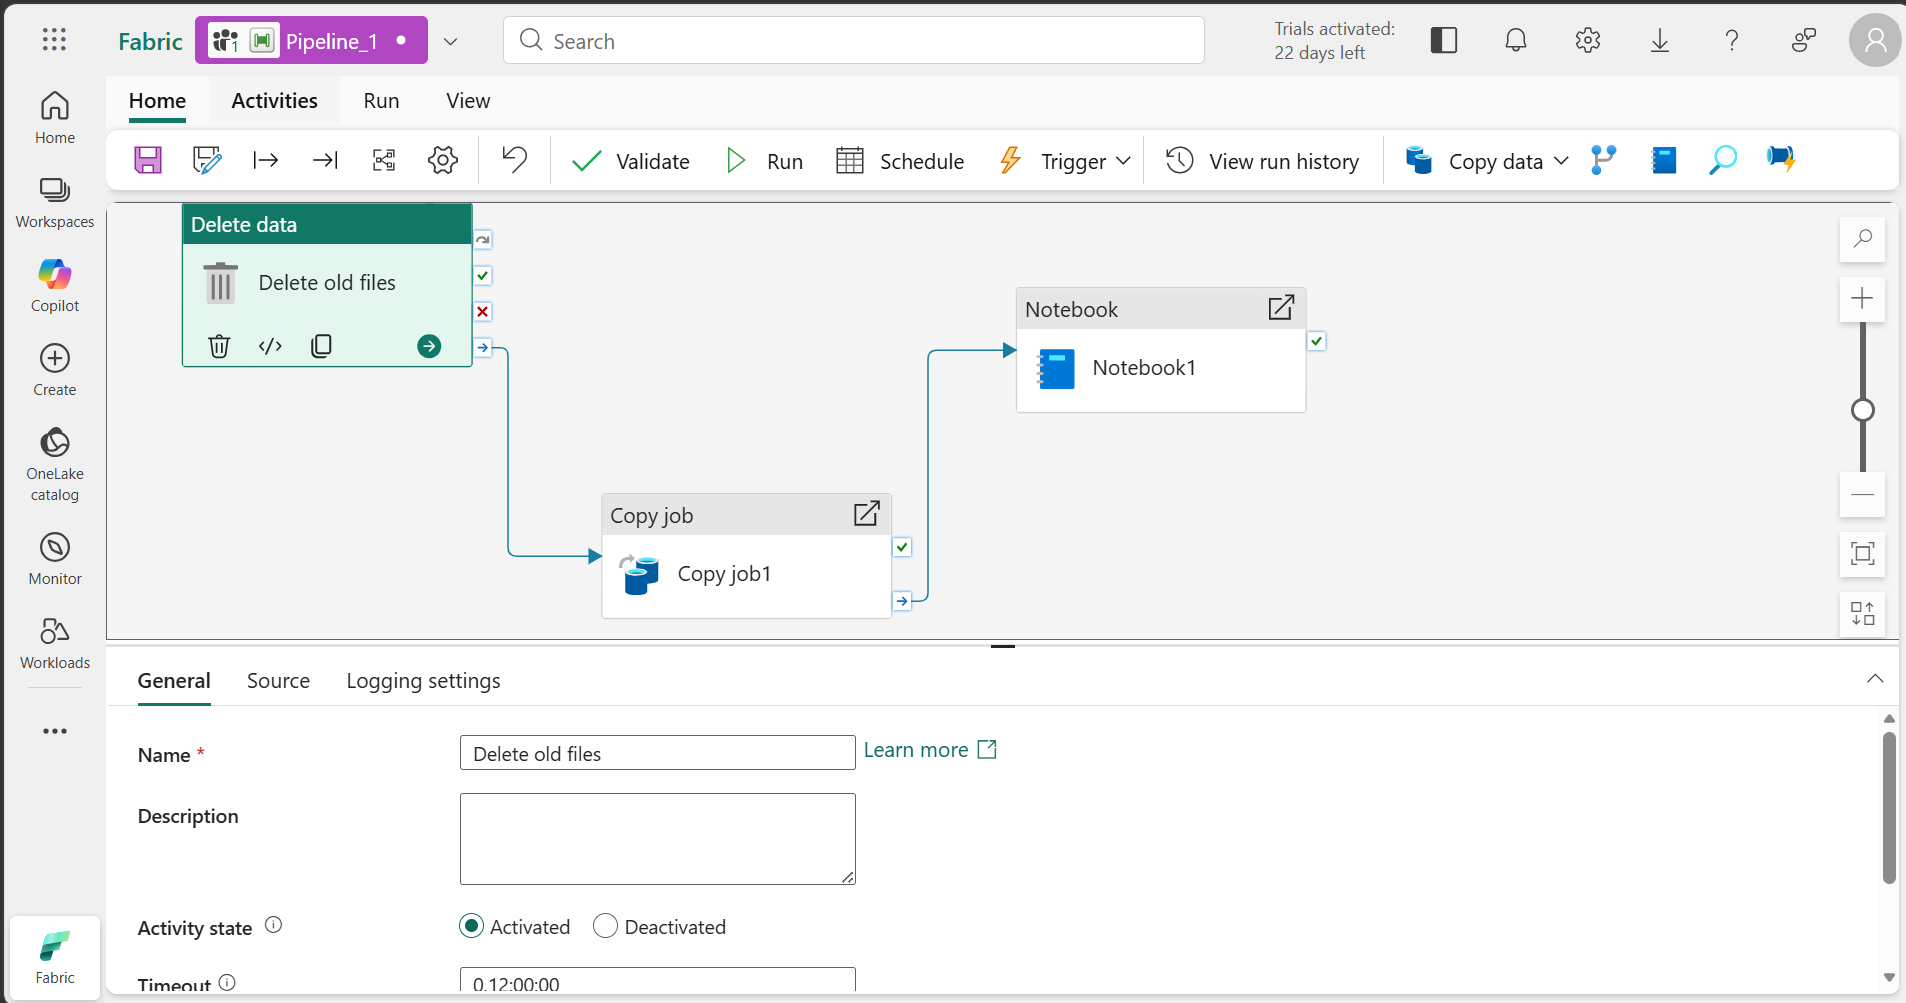
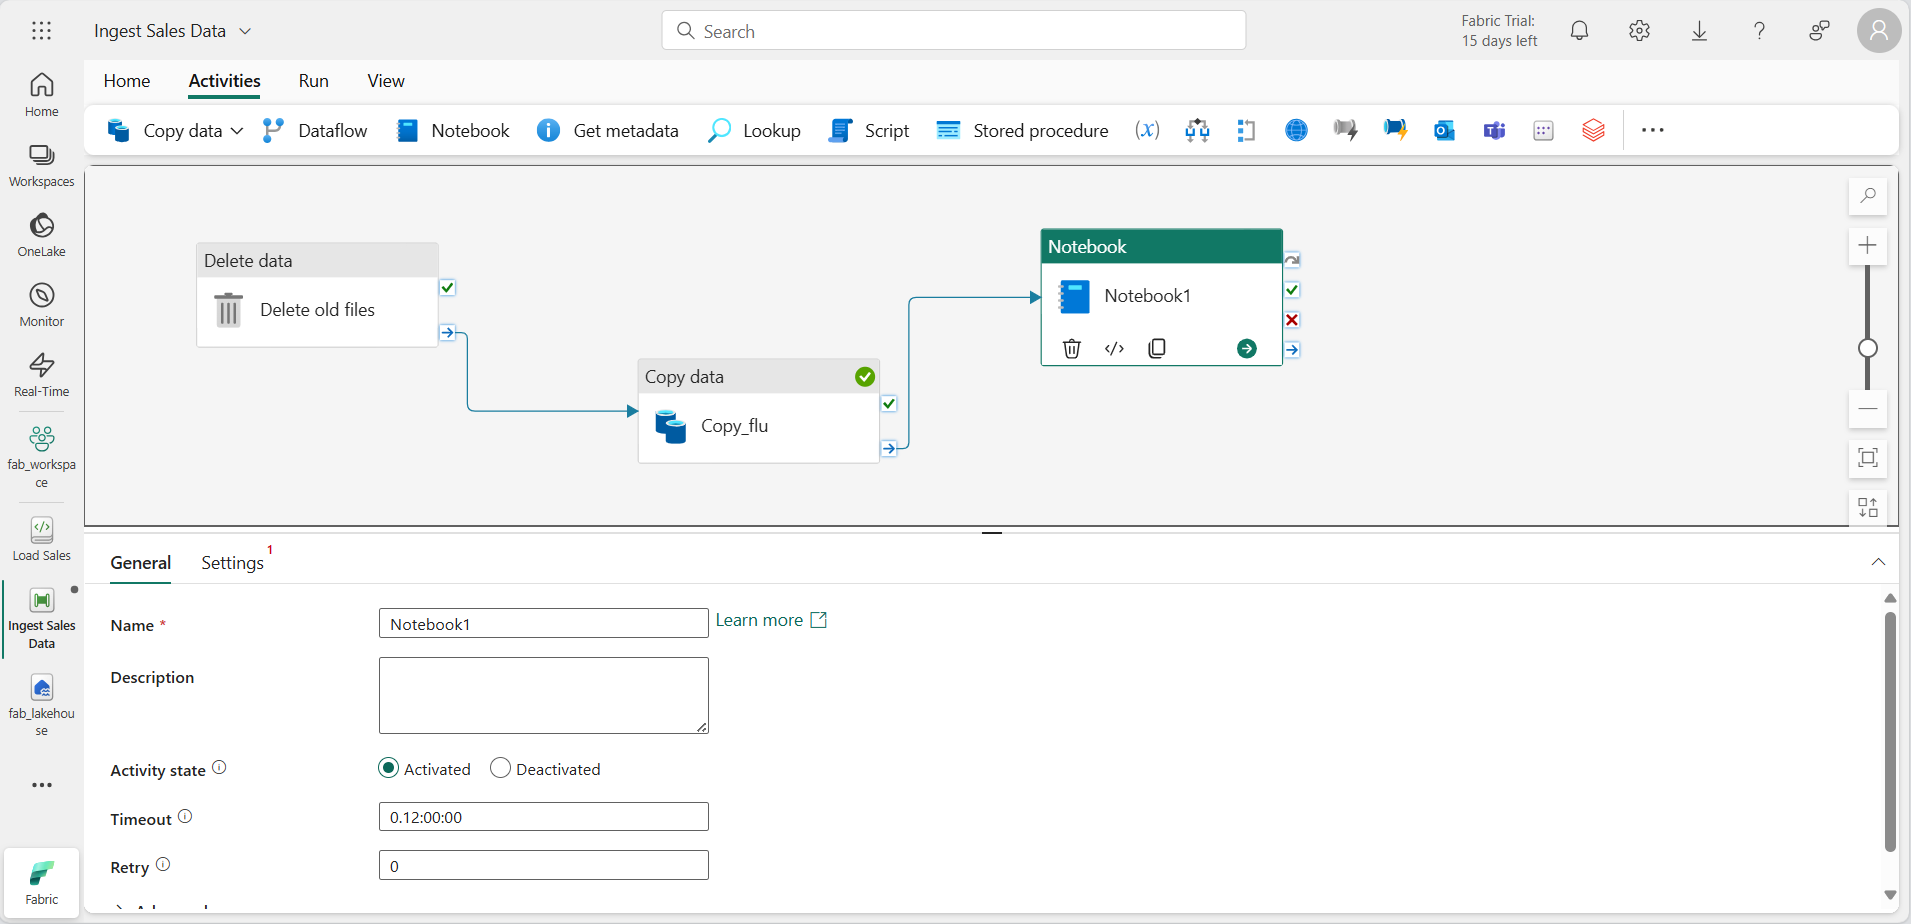
Replace Copy Job workflow with Copy Data activity in pipeline for lab 04
- Rewrite Create a pipeline section to use Copy Data activity directly
- Add Source/Destination tab configuration steps
- Remove standalone Copy Job wizard and Add to pipeline steps
- Add new screenshots for Copy Data activity workflow
- Remove unused Copy Job screenshots
- Fix formatting and grammar issues

diff --git a/Instructions/Labs/04-ingest-pipeline.md b/Instructions/Labs/04-ingest-pipeline.md
@@ -2,7 +2,7 @@
 lab:
   title: Ingest data with a pipeline in Microsoft Fabric
   module: Use Data Factory pipelines in Microsoft Fabric
-  description: In this lab, you'll create data pipelines to ingest data from external sources into a lakehouse, and integrate Spark notebooks to transform and load the data into tables. You'll learn how to combine Copy data activities with custom Spark transformations to build reusable ETL processes in Microsoft Fabric.
+  description: In this lab, you'll create data pipelines to ingest data from external sources into a lakehouse, and integrate Spark notebooks to transform and load the data into tables. You'll learn how to combine Copy Data activities with custom Spark transformations to build reusable ETL processes in Microsoft Fabric.
   duration: 45 minutes
   level: 300
   islab: true
@@ -18,7 +18,7 @@ Fabric also supports Apache Spark, enabling you to write and run code to process
 
 This lab will take approximately **45** minutes to complete.
 
-> [!Note] 
+> [!Note]
 > You need access to a [Microsoft Fabric tenant](https://learn.microsoft.com/fabric/get-started/fabric-trial) to complete this exercise.
 
 ## Create a workspace
@@ -26,7 +26,7 @@ This lab will take approximately **45** minutes to complete.
 Before working with data in Fabric, create a workspace with the Fabric trial enabled.
 
 1. Navigate to the [Microsoft Fabric home page](https://app.fabric.microsoft.com/home?experience=fabric-developer) at `https://app.fabric.microsoft.com/home?experience=fabric-developer` in a browser and sign in with your Fabric credentials.
-1. In the menu bar on the left, select **Workspaces** (the icon looks similar to &#128455;).
+1. In the navigation pane on the left, select **Workspaces** (the icon looks similar to &#128455;).
 1. Create a new workspace with a name of your choice, selecting a licensing mode in the **Advanced** section that includes Fabric capacity (*Trial*, *Premium*, or *Fabric*).
 1. When your new workspace opens, it should be empty.
 
@@ -36,7 +36,7 @@ Before working with data in Fabric, create a workspace with the Fabric trial ena
 
 Now that you have a workspace, it's time to create a data lakehouse into which you will ingest data.
 
-1. On the menu bar on the left, select **Create**. In the *New* page, under the *Data Engineering* section, select **Lakehouse**. Give it a unique name of your choice. Make sure the "Lakehouse schemas (Public Preview)" option is disabled.
+1. On the navigation pane on the left, select **Create**, and choose **Lakehouse**. Give it a unique name of your choice. Make sure the "Lakehouse schemas (Public Preview)" option is disabled.
 
     >**Note**: If the **Create** option is not pinned to the sidebar, you need to select the ellipsis (**...**) option first.
 
@@ -46,66 +46,66 @@ Now that you have a workspace, it's time to create a data lakehouse into which y
 
 ## Create a pipeline
 
-A simple way to ingest data is to use a **Copy data** activity in a pipeline to extract the data from a source and copy it to a file in the lakehouse.
+A simple way to ingest data is to use a **Copy Data** activity in a pipeline to extract the data from a source and copy it to a file in the lakehouse.
 
-1. On the **Home** page for your lakehouse, select **Get data** and then select **New copy job**, and create a new data pipeline named `Ingest Sales Data`.
-1. If the **Copy data** wizard doesn't open automatically, select **From any source to any destination** in the pipeline editor page.
-1. In the **Copy data** wizard, on the **Choose data source** page, type HTTP in the search bar and then select **HTTP** in the **New sources** section.
+> **Note**: A *Copy Job* and a *Copy Data* activity are different methods for moving data in Fabric. A Copy Job is a standalone, simplified data movement tool and doesn't require a pipeline. A Copy Data activity is configured within a pipeline and supports orchestration with other activities. In this exercise, you use a **Copy Data** activity in a pipeline.
 
-    ![Screenshot of the Choose data source page.](./Images/choose-data-source.png)
+1. In the navigation pane on the left, select the name of your workspace.
+1. In the workspace, select **New item**, search for **Pipeline**, and create a new pipeline named `Ingest Sales Data`.
+1. In the pipeline editor canvas, select **Add pipeline activity** and then select **Copy activity**. A **Copy Data** activity is added to the pipeline canvas.
 
-1. In the **Connect to data source** pane, enter the following settings for the connection to your data source:
+    ![Screenshot of a pipeline with a Copy Data activity.](./Images/copy-data-pipeline.png)
+
+### Configure the Source
+
+1. Select the **Copy Data** activity on the canvas, and then in the pane below the canvas select the **Source** tab.
+1. In the **Connection** drop-down, select **Browse all**.
+1. In the **New connection** dialog, search for **HTTP** and select it, then select **Continue**.
+1. Configure the following settings and then select **Connect**:
     - **URL**: `https://raw.githubusercontent.com/MicrosoftLearning/dp-data/main/sales.csv`
-    - **Connection**: Create new connection
     - **Connection name**: *Specify a unique name*
     - **Data gateway**: (none)
     - **Authentication kind**: Anonymous
-1. Select **Next**. Then ensure the following settings are selected:
+1. Back on the **Source tab**, configure the following source settings:
     - **Relative URL**: *Leave blank*
-    - **Request method**: GET
-    - **Additional headers**: *Leave blank*
-    - **Binary copy**: <u>Un</u>selected
-    - **Request timeout**: *Leave blank*
-    - **Max concurrent connections**: *Leave blank*
-1. Select **Next**, and wait for the data to be sampled and then ensure that the following settings are selected:
-    - **File format**: DelimitedText
+    - **File format**: Select **DelimitedText** from the drop-down
+
+    ![Screenshot of the Source tab showing the HTTP connection and file format settings.](./Images/copy-data-source-tab.png)
+
+1. Select the **Settings** button next to the **File format** drop-down. In the **File format settings** dialog, ensure the following settings are configured and then select **OK**:
+    - **Compression type**: No compression
     - **Column delimiter**: Comma (,)
     - **Row delimiter**: Line feed (\n)
-    - **First row as header**: Selected
-    - **Compression type**: None
-1. Select **Preview data** to see a sample of the data that will be ingested. Close the preview, and then select **Next**.
-1. On the **Settings** page, verify that **Read method** is set to **Full Copy**. For **Destination root folder**, select **Files**, and then select **Next**.
+    - **First row as header**: *Selected*
 
-    ![Screenshot of a pipeline with a Copy data activity.](./Images/Copy-job-settings.png)
-1. On the **Map Destination** select Browse and then select on Root folder new_data and filename as *Sales.csv*. 
-Expand the File format settings to set the file format options. then select **Next**
-     - **File format:** DelimitedText
-     - **Column delimiter:** Comma (,)
-     - **Row delimiter:** Line feed (\n)
-     - **Add header to file:** Selected
-     - **Compression type**: No compression
-1. On the **Review+save.** Select in Start data transfer immediately and then select **Save + Run**.
+    ![Screenshot of the File format settings dialog.](./Images/file-format-settings.png)
 
-1. On the **Home** tab, select **Add to pipeline**, and then select **Create**.
+1. Select **Test connection** to verify the connection works.
+2. *Optional*: Select **Preview data** to confirm the data looks correct.
 
-1. Select the **Copy data** activity, and then select **Settings**.
-    - **Connection**: Select **Browse all** and choose the connection you created in the **Copy Job** wizard.
-    
-     ![Screenshot of a pipeline with a Copy data activity.](./Images/newsourcesettings.png)
-1. If you're prompted to create a new connection, use the following credentials:
-    - **Connection**: Create a new connection
-    - **Connection name**: Specify any name
-    - **Data gateway**: none
-    - **Authentication kind**: Organizational account
-    - **Sign in** with your Fabric account credentials, and then select **Connect**.
+### Configure the Destination
 
-1. On Home tab select **Validate**, **Run and then Save and Run**
-   
-   *Note* : It will continue to refresh for 5 minutes while the pipeline is running. Click 'Turn off auto-refresh' to stop the list from automatically refreshing.
+1. Select the **Destination** tab. Then in the **Connection** drop-down, select **Browse all**.
+1. In the **New connection** dialog box, find and select your lakehouse in the *OneLake Catalog* section.
+1. After the connection is created, return to the **Destination** tab and configure the following settings:
+    - **Connection**: *Your newly created lakehouse connection*
+    - **Lakehouse**: *Select the lakehouse you created earlier*
+    - **Root folder**: Files
+    - **File path**: *Directory*: new_data / *File name*: sales.csv
+1. No other changes are necessary.
 
-1. When the pipeline starts to run, you can monitor its status in the **Output** pane under the pipeline designer. Use the **&#8635;** (*Refresh*) icon to refresh the status, and wait until it has succeeeded.
-1. In the menu bar on the left, select your lakehouse.
+![Screenshot of the copy data activity destination settings.](./Images/copy-data-destination.png)
+
+### Run the pipeline
+
+1. On the **Home** tab, use the **&#128427;** (*Save*) icon to save the pipeline. Then use the **&#9655; Run** button to run the pipeline.
+
+1. When the pipeline starts to run, you can monitor its status in the **Output** pane under the pipeline designer. Use the **&#8635;** (*Refresh*) icon to refresh the status, and wait until it has succeeded.
+
+1. In the navigation pane on the left, select your lakehouse.
 1. On the **Home** page, in the **Explorer** pane, expand **Files** and select the **new_data** folder to verify that the **sales.csv** file has been copied.
+
+![Screenshot showing the sales.csv file in the new_data folder.](./Images/pipeline-file-loaded.png)
 
 ## Create a notebook
 
@@ -113,15 +113,15 @@ Expand the File format settings to set the file format options. then select **Ne
 
     After a few seconds, a new notebook containing a single *cell* will open. Notebooks are made up of one or more cells that can contain *code* or *markdown* (formatted text).
 
-2. Select the existing cell in the notebook, which contains some simple code, and then replace the default code with the following variable declaration.
+1. Select the existing cell in the notebook, which contains some simple code, and then replace the default code with the following variable declaration.
 
     ```python
    table_name = "sales"
     ```
 
-3. In the **...** menu for the cell (at its top-right) select **Toggle parameter cell**. This configures the cell so that the variables declared in it are treated as parameters when running the notebook from a pipeline.
+1. In the **...** menu for the cell (at its top-right) select **Toggle parameter cell**. This configures the cell so that the variables declared in it are treated as parameters when running the notebook from a pipeline.
 
-4. Under the parameters cell, use the **+ Code** button to add a new code cell. Then add the following code to it:
+1. Under the parameters cell, use the **+ Code** button to add a new code cell. Then add the following code to it:
 
     ```python
    from pyspark.sql.functions import *
@@ -142,71 +142,68 @@ Expand the File format settings to set the file format options. then select **Ne
    df.write.format("delta").mode("append").saveAsTable(table_name)
     ```
 
-    This code loads the data from the sales.csv file that was ingested by the **Copy data** activity, applies some transformation logic, and saves the transformed data as a table - appending the data if the table already exists.
+    This code loads the data from the sales.csv file that was ingested by the **Copy Data** activity, applies some transformation logic, and saves the transformed data as a table - appending the data if the table already exists.
 
-5. Verify that your notebooks looks similar to this, and then use the **&#9655; Run all** button on the toolbar to run all of the cells it contains.
-
-    ![Screenshot of a notebook with a parameters cell and code to transform data.](./Images/notebook.png)
+1. Verify that your notebooks looks similar to this, and then use the **&#9655; Run all** button on the toolbar to run all of the cells it contains.
 
     > **Note**: Since this is the first time you've run any Spark code in this session, the Spark pool must be started. This means that the first cell can take a minute or so to complete.
 
-6. When the notebook run has completed, in the **Explorer** pane on the left, in the **...** menu for **Tables** select **Refresh** and verify that a **sales** table has been created.
-7. In the notebook menu bar, use the ⚙ **Settings** icon to view the notebook settings. Then set the **Name** of the notebook to `Load Sales` and close the settings pane.
-8. In the hub menu bar on the left, select your lakehouse.
-9. In the **Explorer** pane, refresh the view. Then expand **Tables**, and select the **sales** table to see a preview of the data it contains
+1. When the notebook run has completed, in the **Explorer** pane on the left, in the **...** menu for **Tables** select **Refresh** and verify that a **sales** table has been created.
+1. In the notebook menu bar, use the **Settings** icon to view the notebook settings. Then set the **Name** of the notebook to `Load Sales` and close the settings pane.
+1. In the hub menu bar on the left, select your lakehouse.
+1. In the **Explorer** pane, refresh the view. Then expand **Tables**, and select the **sales** table to see a preview of the data it contains.
+
+    ![Screenshot of a notebook with a parameters cell and code to transform data.](./Images/notebook.png)
 
 ## Modify the pipeline
 
 Now that you've implemented a notebook to transform data and load it into a table, you can incorporate the notebook into a pipeline to create a reusable ETL process.
 
 1. In the hub menu bar on the left select the **Ingest Sales Data** pipeline you created previously.
-2. On the **Activities** tab, in **...** then select on **All activities** list, select **Delete data**. 
-   - Then position the new **Delete data**  activity to the left of the **Copy data** activity and connect its **On completion** output to the **Copy data** activity, as shown here:
+1. On the **Activities** tab, in the **All activities** list, select **Delete data**. Then position the new **Delete data**  activity to the left of the **Copy data** activity and connect its **On completion** output to the **Copy data** activity, as shown here:
 
     ![Screenshot of a pipeline with Delete data and Copy data activities.](./Images/delete-data-activity.png)
 
-3. Select the **Delete data** activity, and in the pane below the design canvas, set the following properties:
+1. Select the **Delete data** activity, and in the pane below the design canvas, set the following properties:
     - **General**:
         - **Name**: `Delete old files`
     - **Source**
-        - **Connection**: *Your lakehouse* [Browse on lakehouse]
+        - **Connection**: Browse all, and select your lakehouse
         - **File path type**: Wildcard file path
         - **Folder path**: Files / **new_data**
-        - **Wildcard file name**: `*.csv`        
+        - **Wildcard file name**: `*.csv`
         - **Recursively**: *Selected*
     - **Logging settings**:
         - **Enable logging**: *<u>Un</u>selected*
 
     These settings will ensure that any existing .csv files are deleted before copying the **sales.csv** file.
 
-4. In the pipeline designer, on the **Activities** tab, select **Notebook** to add a **Notebook** activity to the pipeline.
-5. Select the **Copy data** activity and then connect its **On Completion** output to the **Notebook** activity as shown here:
+1. In the pipeline designer, on the **Activities** tab, select **Notebook** to add a **Notebook** activity to the pipeline.
+1. Select the **Copy data** activity and then connect its **On Completion** output to the **Notebook** activity as shown here:
 
-    ![Screenshot of a pipeline with Copy data and Notebook activities.](./Images/pipeline.png)
+    ![Screenshot of a pipeline with Copy Data and Notebook activities.](./Images/pipeline.png)
 
-6. Select the **Notebook** activity, and then in the pane below the design canvas, set the following properties:
+1. Select the **Notebook** activity, and then in the pane below the design canvas, set the following properties:
     - **General**:
         - **Name**: `Load Sales notebook`
     - **Settings**:
-        - **Notebook**: Load Sales
+        - **Notebook**: Select your *Load Sales* notebook
         - **Base parameters**: *Add a new parameter with the following properties:*
-            
+
             | Name | Type | Value |
             | -- | -- | -- |
             | table_name | String | new_sales |
 
     The **table_name** parameter will be passed to the notebook and override the default value assigned to the **table_name** variable in the parameters cell.
 
-7. On the **Home** tab, use the **&#128427;** (*Save*) icon to save the pipeline. Then use the **&#9655; Run** button to run the pipeline, and wait for all of the activities to complete.
+1. On the **Home** tab, use the **&#128427;** (*Save*) icon to save the pipeline. Then use the **&#9655; Run** button to run the pipeline, and wait for all of the activities to complete.
 
     ![Screenshot of a pipeline with a Dataflow activity.](./Images/pipeline-run.png)
 
 > Note: In case you receive the error message *Spark SQL queries are only possible in the context of a lakehouse. Please attach a lakehouse to proceed*: Open your notebook, select the lakehouse you created on the left pane, select **Remove all Lakehouses** and then add it again. Go back to the pipeline designer and select **&#9655; Run**.
 
-   *Note:* It will continue to refresh for 5 minutes while the pipeline is running. Click 'Turn off auto-refresh' to stop the list from automatically refreshing.
-
-8. In the hub menu bar on the left edge of the portal, select your lakehouse.
-9. In the **Explorer** pane, expand **Tables** and select the **new_sales** table to see a preview of the data it contains. This table was created by the notebook when it was run by the pipeline.
+1. In the hub menu bar on the left edge of the portal, select your lakehouse.
+1. In the **Explorer** pane, expand **Tables** and select the **new_sales** table to see a preview of the data it contains. This table was created by the notebook when it was run by the pipeline.
 
 In this exercise, you implemented a data ingestion solution that uses a pipeline to copy data to your lakehouse from an external source, and then uses a Spark notebook to transform the data and load it into a table.
 
